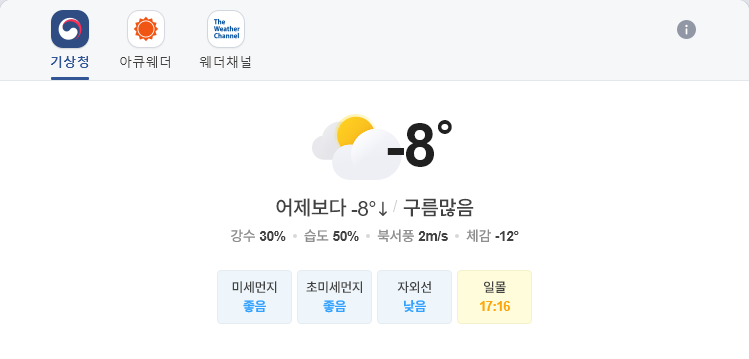
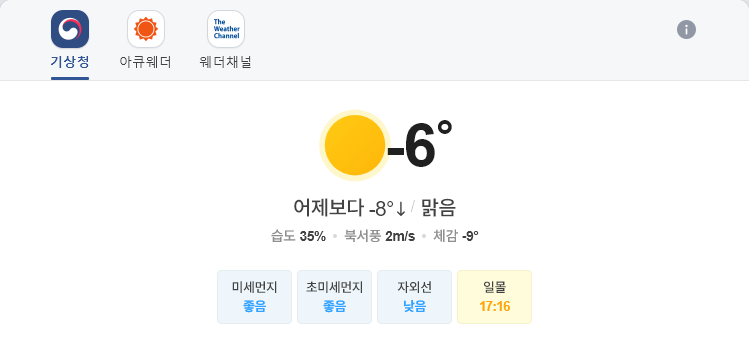
update result

Changed region(s): [[0.4299, 0.3064, 0.5834, 0.5209], [0.3685, 0.5515, 0.6449, 0.6128], [0.3071, 0.6435, 0.7063, 0.6741]]

diff --git a/README.md b/README.md
@@ -1,13 +1,13 @@
-##  2020-12-14 09:16:41   월요일 
-##### 날씨   -   어제보다 -8° 낮아요구름많음  
+##  2020-12-14 12:07:33   월요일 
+##### 날씨   -   어제보다 -8° 낮아요맑음  
 <center><img src="../img/naver_weather_week.png"></center>
 ----
 ----
 ##### 지수
 <table border="1" bordercolor="blue" align = "center" >
 <tr align = "right" > <td>Item</td><td>Point</td><td>Diff</td><td>Rate</td><td>Buy</td><td>Sell</td><td>...</td>  </tr>
-<tr align = "right" > <td>KOSPI</td><td>2,774.02</td><td>3.96</td><td><font size="3" color="red" >0.14%</font> </td><td><font size="3" color="black">2,000</font></td><td><font size="3" color="black">3,000</font></td><td>0</td>  </tr>
-<tr align = "right" > <td>KOSDAQ</td><td>930.54</td><td>2.1</td><td><font size="3" color="red" >0.23%</font> </td><td><font size="3" color="black">0</font></td><td><font size="3" color="black">0</font></td><td>0</td>  </tr>
+<tr align = "right" > <td>KOSPI</td><td>2,772.86</td><td>2.8</td><td><font size="3" color="red" >0.1%</font> </td><td><font size="3" color="black">2,000</font></td><td><font size="3" color="black">3,000</font></td><td>0</td>  </tr>
+<tr align = "right" > <td>KOSDAQ</td><td>934.24</td><td>5.8</td><td><font size="3" color="red" >0.62%</font> </td><td><font size="3" color="black">0</font></td><td><font size="3" color="black">0</font></td><td>0</td>  </tr>
 </table>
 ----
 ##### 세계
@@ -16,14 +16,14 @@
 <tr align = "right" > <td>DOW</td><td>30,046.37</td><td>47.11</td><td><font size="3" color="red" >0.16%</font></td><td><font size="3" color="black">0</font></td><td><font size="3" color="black">0</font></td><td>0</td>  </tr>
 <tr align = "right" > <td>NASDAQ</td><td>12,377.87</td><td>-27.94</td><td><font size="3" color="blue" >-0.23%</font></td><td><font size="3" color="black">0</font></td><td><font size="3" color="black">0</font></td><td>0</td>  </tr>
 <tr align = "right" > <td>S&P</td><td>3,663.46</td><td>-4.64</td><td><font size="3" color="blue" >-0.13%</font></td><td><font size="3" color="black">0</font></td><td><font size="3" color="black">0</font></td><td>0</td>  </tr>
-<tr align = "right" > <td>SHANHAI</td><td>3,347.19</td><td>-26.08</td><td><font size="3" color="blue" >-0.77%</font></td><td><font size="3" color="black">0</font></td><td><font size="3" color="black">0</font></td><td>0</td>  </tr>
+<tr align = "right" > <td>SHANHAI</td><td>3,358.71</td><td>11.52</td><td><font size="3" color="red" >0.34%</font></td><td><font size="3" color="black">0</font></td><td><font size="3" color="black">0</font></td><td>0</td>  </tr>
 <tr align = "right" > <td>INDIA</td><td>46,099.01</td><td>139.13</td><td><font size="3" color="red" >0.3%</font></td><td><font size="3" color="black">0</font></td><td><font size="3" color="black">0</font></td><td>0</td>  </tr>
 </table>
 ----
 ##### 시장
 <table border="1" bordercolor="blue" align = "center" >
 <tr align = "right" > <td>Item</td><td>Price</td><td>Diff</td><td>Rate</td><td>Buy</td><td>Sell</td><td>...</td>  </tr>
-<tr align = "right" > <td>USD</td><td>1,090.0</td><td>-1.7</td><td><font size="3" color="blue">-0.16%</font></td><td><font size="3" color="orangered">1,110</font></td><td><font size="3" color="black">0</font></td><td>0</td>  </tr>
+<tr align = "right" > <td>USD</td><td>1,090.0</td><td>-1.8</td><td><font size="3" color="blue">-0.16%</font></td><td><font size="3" color="orangered">1,110</font></td><td><font size="3" color="black">0</font></td><td>0</td>  </tr>
 <tr align = "right" > <td>WTI</td><td>46.57</td><td>-0.21</td><td><font size="3" color="blue">-0.44%</font></td><td><font size="3" color="black">29.0</font></td><td><font size="3" color="black">0</font></td><td>0</td>  </tr>
 <tr align = "right" > <td>GOLD</td><td>1,839.0</td><td>6.2</td><td><font size="3" color="red">0.33%</font></td><td><font size="3" color="black">0</font></td><td><font size="3" color="black">0</font></td><td>0</td>  </tr>
 </table>
@@ -31,23 +31,23 @@
 ##### 주가
 <table border="1" bordercolor="blue" align = "center" >
 <tr align = "right" > <td>Item</td><td>Price</td><td>Diff</td><td>Rate</td><td>Purchased</td><td>Sell</td><td>Buy</td>  </tr>
-<tr align = "right" > <td>한국 전력</td><td>24,200</td><td>400</td><td><font size="3" color="red">1.68%</font></td><td>25,720</td><td><font size="3" color="black">30,000</font></td><td><font size="3" color="black">14,000</font></td>  </tr>
+<tr align = "right" > <td>한국 전력</td><td>23,900</td><td>100</td><td><font size="3" color="red">0.42%</font></td><td>25,720</td><td><font size="3" color="black">30,000</font></td><td><font size="3" color="black">14,000</font></td>  </tr>
 <tr align = "right" > <td>삼성엔지니어.</td><td>13,600</td><td>-50</td><td><font size="3" color="blue">-0.37%</font></td><td>18,935</td><td><font size="3" color="black">20,000</font></td><td><font size="3" color="black">8,000</font></td>  </tr>
-<tr align = "right" > <td>CJ CGV</td><td>23,650</td><td>-500</td><td><font size="3" color="blue">-2.07%</font></td><td>34,895</td><td><font size="3" color="black">36,000</font></td><td><font size="3" color="black">0</font></td>  </tr>
-<tr align = "right" > <td>아모레퍼시픽</td><td>212,500</td><td>-3,500</td><td><font size="3" color="blue">-1.62%</font></td><td>235,350</td><td><font size="3" color="black">240,000</font></td><td><font size="3" color="black">130,000</font></td>  </tr>
-<tr align = "right" > <td>한화</td><td>26,650</td><td>100</td><td><font size="3" color="red">0.38%</font></td><td>25,550</td><td><font size="3" color="black">30,000</font></td><td><font size="3" color="black">20,000</font></td>  </tr>
-<tr align = "right" > <td>NAVER</td><td>293,000</td><td>3,000</td><td><font size="3" color="red">1.03%</font></td><td>147,200</td><td><font size="3" color="black">400,000</font></td><td><font size="3" color="black">150,000</font></td>  </tr>
-<tr align = "right" > <td>LG 화학우</td><td>378,500</td><td>-2,000</td><td><font size="3" color="blue">-0.53%</font></td><td>202,490</td><td><font size="3" color="black">500,000</font></td><td><font size="3" color="black">200,000</font></td>  </tr>
-<tr align = "right" > <td>스튜디오드래.</td><td>85,300</td><td>1,000</td><td><font size="3" color="red">1.19%</font></td><td>81,243</td><td><font size="3" color="black">100,000</font></td><td><font size="3" color="black">78,000</font></td>  </tr>
-<tr align = "right" > <td>글로벌럭셔리</td><td>14,270</td><td>-15</td><td><font size="3" color="blue">-0.11%</font></td><td>0</td><td><font size="3" color="black">15,000</font></td><td><font size="3" color="black">10,000</font></td>  </tr>
-<tr align = "right" > <td>QV미국IT</td><td>24,440</td><td>0</td><td><font size="3" color="black">0.0%</font></td><td>0</td><td><font size="3" color="black">30,000</font></td><td><font size="3" color="black">20,000</font></td>  </tr>
-<tr align = "right" > <td>호텔 신라</td><td>83,500</td><td>-1,500</td><td><font size="3" color="blue">-1.76%</font></td><td>72,800</td><td><font size="3" color="black">100,000</font></td><td><font size="3" color="black">70,000</font></td>  </tr>
-<tr align = "right" > <td>S-Oil</td><td>72,500</td><td>-800</td><td><font size="3" color="blue">-1.09%</font></td><td>62,842</td><td><font size="3" color="black">100,000</font></td><td><font size="3" color="black">50,000</font></td>  </tr>
-<tr align = "right" > <td>LG전자</td><td>95,100</td><td>-700</td><td><font size="3" color="blue">-0.73%</font></td><td>82,022</td><td><font size="3" color="black">100,000</font></td><td><font size="3" color="black">60,000</font></td>  </tr>
-<tr align = "right" > <td>지역난방공사</td><td>40,050</td><td>100</td><td><font size="3" color="red">0.25%</font></td><td>43,590</td><td><font size="3" color="black">60,000</font></td><td><font size="3" color="black">30,000</font></td>  </tr>
-<tr align = "right" > <td>KOEDX은행</td><td>6,345</td><td>0</td><td><font size="3" color="black">0.0%</font></td><td>5,178</td><td><font size="3" color="black">6,000</font></td><td><font size="3" color="black">4,500</font></td>  </tr>
-<tr align = "right" > <td>삼성 전자우</td><td>70,100</td><td>800</td><td><font size="3" color="red">1.15%</font></td><td>48,250</td><td><font size="3" color="black">56,000</font></td><td><font size="3" color="black">45,000</font></td>  </tr>
-<tr align = "right" > <td>한화에어로스.</td><td>27,100</td><td>-50</td><td><font size="3" color="blue">-0.18%</font></td><td>25,700</td><td><font size="3" color="black">30,000</font></td><td><font size="3" color="black">24,000</font></td>  </tr>
-<tr align = "right" > <td>한국금융지주</td><td>78,400</td><td>-600</td><td><font size="3" color="blue">-0.76%</font></td><td>0</td><td><font size="3" color="black">82,000</font></td><td><font size="3" color="black">60,000</font></td>  </tr>
+<tr align = "right" > <td>CJ CGV</td><td>24,000</td><td>-150</td><td><font size="3" color="blue">-0.62%</font></td><td>34,895</td><td><font size="3" color="black">36,000</font></td><td><font size="3" color="black">0</font></td>  </tr>
+<tr align = "right" > <td>아모레퍼시픽</td><td>212,000</td><td>-4,000</td><td><font size="3" color="blue">-1.85%</font></td><td>235,350</td><td><font size="3" color="black">240,000</font></td><td><font size="3" color="black">130,000</font></td>  </tr>
+<tr align = "right" > <td>한화</td><td>26,550</td><td>0</td><td><font size="3" color="black">0.0%</font></td><td>25,550</td><td><font size="3" color="black">30,000</font></td><td><font size="3" color="black">20,000</font></td>  </tr>
+<tr align = "right" > <td>NAVER</td><td>287,500</td><td>-2,500</td><td><font size="3" color="blue">-0.86%</font></td><td>147,200</td><td><font size="3" color="black">400,000</font></td><td><font size="3" color="black">150,000</font></td>  </tr>
+<tr align = "right" > <td>LG 화학우</td><td>373,500</td><td>-7,000</td><td><font size="3" color="blue">-1.84%</font></td><td>202,490</td><td><font size="3" color="black">500,000</font></td><td><font size="3" color="black">200,000</font></td>  </tr>
+<tr align = "right" > <td>스튜디오드래.</td><td>85,200</td><td>900</td><td><font size="3" color="red">1.07%</font></td><td>81,243</td><td><font size="3" color="black">100,000</font></td><td><font size="3" color="black">78,000</font></td>  </tr>
+<tr align = "right" > <td>글로벌럭셔리</td><td>14,290</td><td>5</td><td><font size="3" color="red">0.04%</font></td><td>0</td><td><font size="3" color="black">15,000</font></td><td><font size="3" color="black">10,000</font></td>  </tr>
+<tr align = "right" > <td>QV미국IT</td><td>24,610</td><td>170</td><td><font size="3" color="red">0.7%</font></td><td>0</td><td><font size="3" color="black">30,000</font></td><td><font size="3" color="black">20,000</font></td>  </tr>
+<tr align = "right" > <td>호텔 신라</td><td>82,600</td><td>-2,400</td><td><font size="3" color="blue">-2.82%</font></td><td>72,800</td><td><font size="3" color="black">100,000</font></td><td><font size="3" color="black">70,000</font></td>  </tr>
+<tr align = "right" > <td>S-Oil</td><td>72,100</td><td>-1,200</td><td><font size="3" color="blue">-1.64%</font></td><td>62,842</td><td><font size="3" color="black">100,000</font></td><td><font size="3" color="black">50,000</font></td>  </tr>
+<tr align = "right" > <td>LG전자</td><td>95,200</td><td>-600</td><td><font size="3" color="blue">-0.63%</font></td><td>82,022</td><td><font size="3" color="black">100,000</font></td><td><font size="3" color="black">60,000</font></td>  </tr>
+<tr align = "right" > <td>지역난방공사</td><td>40,350</td><td>400</td><td><font size="3" color="red">1.0%</font></td><td>43,590</td><td><font size="3" color="black">60,000</font></td><td><font size="3" color="black">30,000</font></td>  </tr>
+<tr align = "right" > <td>KOEDX은행</td><td>6,320</td><td>-25</td><td><font size="3" color="blue">-0.39%</font></td><td>5,178</td><td><font size="3" color="black">6,000</font></td><td><font size="3" color="black">4,500</font></td>  </tr>
+<tr align = "right" > <td>삼성 전자우</td><td>70,400</td><td>1,100</td><td><font size="3" color="red">1.59%</font></td><td>48,250</td><td><font size="3" color="black">56,000</font></td><td><font size="3" color="black">45,000</font></td>  </tr>
+<tr align = "right" > <td>한화에어로스.</td><td>27,050</td><td>-100</td><td><font size="3" color="blue">-0.37%</font></td><td>25,700</td><td><font size="3" color="black">30,000</font></td><td><font size="3" color="black">24,000</font></td>  </tr>
+<tr align = "right" > <td>한국금융지주</td><td>78,000</td><td>-1,000</td><td><font size="3" color="blue">-1.27%</font></td><td>0</td><td><font size="3" color="black">82,000</font></td><td><font size="3" color="black">60,000</font></td>  </tr>
 </table>
 ----
